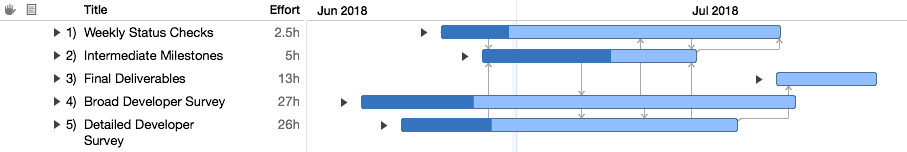
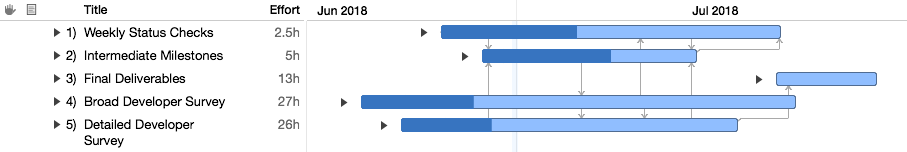
Updated project plan to reflect weekly status check completion

Changed region(s): [[0.5557, 0.1579, 0.6483, 0.2632]]

diff --git a/project-plan/gantt.html b/project-plan/gantt.html
@@ -31,12 +31,12 @@
 	       
 <table border="0" cellspacing="0" cellpadding="0">
 <tr>
-	<td><img src="include/gantt0,0.jpg?nocacheTag=-1831004560" border=0/></td>
-	<td><img src="include/gantt1,0.jpg?nocacheTag=551540774" border=0/></td>
+	<td><img src="include/gantt0,0.jpg?nocacheTag=-137102579" border=0/></td>
+	<td><img src="include/gantt1,0.jpg?nocacheTag=1286029575" border=0/></td>
 </tr>
 <tr>
-	<td><img src="include/gantt0,1.jpg?nocacheTag=1738884809" border=0/></td>
-	<td><img src="include/gantt1,1.jpg?nocacheTag=430834584" border=0/></td>
+	<td><img src="include/gantt0,1.jpg?nocacheTag=-1313327186" border=0/></td>
+	<td><img src="include/gantt1,1.jpg?nocacheTag=-1637398793" border=0/></td>
 </tr>
 </table>
         </div>

diff --git a/project-plan/task.html b/project-plan/task.html
@@ -53,7 +53,7 @@
                 <td>6/24/18, 12:00 PM</td>
                 <td>7/22/18, 10:30 AM</td>
                 <td>58.5h</td>
-                <td>20%</td>
+                <td>40%</td>
                 <td></td>
                 <td class="total"></td>
                 <td></td>
@@ -87,7 +87,7 @@
                 <td>7/1/18, 11:00 AM</td>
                 <td>7/1/18, 11:30 AM</td>
                 <td>0.5h</td>
-                <td>0%</td>
+                <td>100%</td>
                 <td>1.1</td>
                 <td class="total"></td>
                 <td>Ryan Turner</td>

diff --git a/project-plan/resource.html b/project-plan/resource.html
@@ -90,7 +90,7 @@
                 <td>7/1/18, 11:00 AM</td>
                 <td>7/1/18, 11:30 AM</td>
                 <td>0.5h</td>
-                <td>0%</td>
+                <td>100%</td>
                 <td></td>
             </tr>
             
